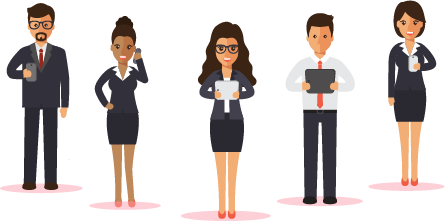
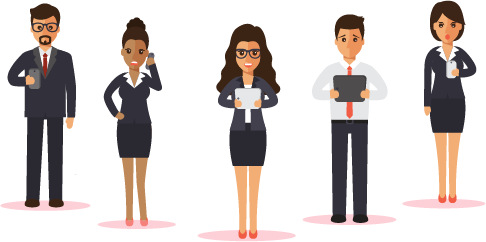
layout - Home: change image + animate bg feature

diff --git a/resources/assets/sass/_base.scss b/resources/assets/sass/_base.scss
@@ -132,6 +132,18 @@ input, textarea {
     right: 0;
     bottom: 0;
     background: #FFD7DB;
+
+    .img-left {
+      position: absolute;
+      bottom: 0;
+      left: 1rem;
+    }
+
+    .img-right {
+      position: absolute;
+      bottom: 0;
+      right: 1rem;
+    }
   }
 
   .banner-main {
@@ -184,10 +196,9 @@ input, textarea {
   background-color: #efffcc;
 }
 
-.bg-full-width {
-  position: absolute;
-  top: 0;
-  bottom: 0;
+.bg-pink-light {
+  background-color: #FFD7DB;
+  opacity: .3;
 }
 
 .slider {

diff --git a/resources/assets/sass/home.scss b/resources/assets/sass/home.scss
@@ -52,9 +52,17 @@
   padding-top: 2rem;
 
   .features-body {
+    position: relative;
+
     .feature {
       padding: 5rem 0;
       font-family: $fontRoboto;
+    }
+
+    #bg-feature {
+      position: absolute;
+      top: 0;
+      bottom: 0;
     }
   }
 }

diff --git a/resources/views/home/index.blade.php b/resources/views/home/index.blade.php
@@ -21,6 +21,18 @@
 
 @push('script')
 <script>
+    //  Story button read more
+    var btnReadMoreStory = $(".btn-story-read-more");
+    var hiddenStory = $('#hidden-story');
+    var moreText = '{{ trans('string.story.read_more') }}';
+    var lessText = '{{ trans('string.minimize') }}';
+
+    btnReadMoreStory.on('click', function (e) {
+        $(this).text($(this).text().trim() === moreText ? lessText : moreText);
+        hiddenStory.slideToggle();
+    });
+
+    //  Feedback Image
     $('.feedback-image-wrapper').on('click', function (event) {
         var index = $(this).attr('data-index');
         $('.feedback-image-wrapper').removeClass('active');
@@ -29,26 +41,53 @@
         $('#fb-content-' + index).addClass('active');
     });
 
-    var bg = document.getElementById('bg-first-feature');
-    makeBgFullWidth(bg);
+    //  Feature background
+    var featureBg = $('#bg-feature');
+    var featureBgHeight = featureBg.outerHeight();
+    var featureItems = $('.feature');
+    var featureBgIsChanging = false;
+    var featureBgPreloadHeight = 300;
+    var animateSpeed = 150;
 
-    function makeBgFullWidth(element) {
-        var bodyWidth = document.body.offsetWidth;
-        var parent = element.parentElement;
-        var pullWidth = "-" + (bodyWidth - parent.offsetWidth) / 2 + 'px';
-        element.style.left = pullWidth;
-        element.style.right = pullWidth;
+    makeBgFullWidth(featureBg);
+    $(window).on('scroll', function () {
+        var windowOffsetTop = $(this).scrollTop();
+        featureItems.each(function (index, item) {
+            var currentTop = $(item).offset().top;
+            var preloadCurrentTop = currentTop - featureBgPreloadHeight;
+
+            if (index === featureItems.length - 1) {
+                if (preloadCurrentTop < windowOffsetTop) makeFeatureBgAnimate($(item));
+
+                return;
+            }
+
+            if (preloadCurrentTop < windowOffsetTop && windowOffsetTop < currentTop) {
+                makeFeatureBgAnimate($(item));
+            }
+        });
+    });
+
+    function makeFeatureBgAnimate(currentItem) {
+        var top = currentItem.position().top;
+        if (featureBgIsChanging || top === featureBg.position().top) return;
+
+        featureBgIsChanging = true;
+        var bottom = -(currentItem.position().top - featureBgHeight + currentItem.outerHeight());
+        featureBg.animate({
+            'top': top,
+            'bottom': bottom
+        }, animateSpeed, function () {
+            featureBgIsChanging = false;
+        });
     }
 
-    var btnReadMoreStory = $(".btn-story-read-more");
-    var hiddenStory = $('#hidden-story');
-    var moreText = '{{ trans('string.story.read_more') }}';
-    var lessText = '{{ trans('string.minimize') }}';
-
-    btnReadMoreStory.on('click', function (e) {
-//        $(this).prev().slideToggle();
-        $(this).text($(this).text().trim() === moreText ? lessText : moreText);
-        hiddenStory.slideToggle();
-    });
+    function makeBgFullWidth(element) {
+        var bodyWidth = $('body').outerWidth();
+        var parentWidth = element.parent().outerWidth();
+        var pullWidth = "-" + (bodyWidth - parentWidth) / 2 + 'px';
+        element.css('left', pullWidth);
+        element.css('right', pullWidth);
+    }
 </script>
 @endpush

diff --git a/config/app.php b/config/app.php
@@ -174,7 +174,7 @@ return [
         Laravel\Tinker\TinkerServiceProvider::class,
         Barryvdh\LaravelIdeHelper\IdeHelperServiceProvider::class,
         Intervention\Image\ImageServiceProvider::class,
-        Barryvdh\Debugbar\ServiceProvider::class,
+        // Barryvdh\Debugbar\ServiceProvider::class,
         Collective\Html\HtmlServiceProvider::class,
 
         /*

diff --git a/resources/views/banner/product.blade.php b/resources/views/banner/product.blade.php
@@ -1,6 +1,9 @@
 <!-- Banner -->
 <div class="banner">
-    <div class="banner-bg"></div>
+    <div class="banner-bg">
+        <img class="img-left" src="/images/home/banner/bg_left.png" alt="">
+        <img class="img-right" src="/images/home/banner/bg_right.png" alt="">
+    </div>
 
     <div class="banner-main">
         <div class="container">

diff --git a/resources/views/home/feature/item.blade.php b/resources/views/home/feature/item.blade.php
@@ -1,7 +1,7 @@
 <!-- Feature item -->
 <div class="feature col-sm-12">
     @if($index == 0)
-        <div class="bg-cyan bg-full-width" id="bg-first-feature"></div>
+        <div class="bg-pink-light" id="bg-feature"></div>
     @endif
     <div class="row">
         <div class="col-sm-6 {{ is_odd_number($index) ? 'push-sm-6' : '' }}">
